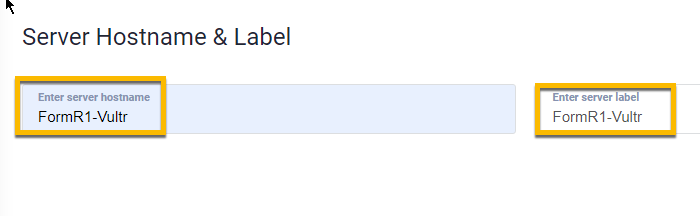
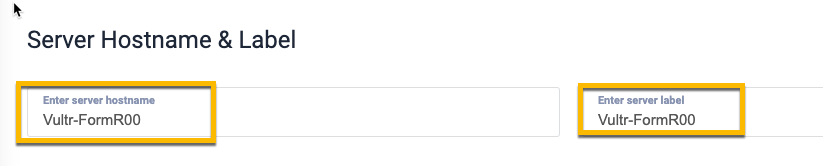
Updated Vultr-FormR00

Changed region(s): [[0.0, 0.3313, 1.0, 0.9036], [0.03, 0.1205, 0.42, 0.3012], [0.0, 0.0, 0.03, 0.1205]]

diff --git a/Setup/fr0301_Setup-Vultr-Ubuntu.md b/Setup/fr0301_Setup-Vultr-Ubuntu.md
@@ -53,7 +53,7 @@
 
 ![Vultr-add-SSH-key-pasted](./images/fr0301-06_Vultr-add-SSH-key-pasted.png "Vultr-add-SSH-key-pasted")
 
-8. Server Host Name and Label: FormR1-Vultr for both
+8. Server Host Name and Label: Vultr-FormR00 for both
 
 ![Vultr-Host-Label](./images/fr0301-07_Vultr-Host-Label.png "Vultr-Host-Label")
 
@@ -69,7 +69,7 @@
 ----
 ### 2. Open Vultr VM Console to Log in
 ----
-1. Click on Products, then the Server Name i.e. FormR1-Vultr
+1. Click on Products, then the Server Name i.e. Vultr-FormR00
 
 ![Vultr Open Console](./images/fr0301-09_Vultr-Open-Console.png "Open Console")
 
@@ -95,7 +95,7 @@
 
 6. You will see the Welcome screen for Ubuntu and the command prompt:
 
-    root@FormRx-Vultr:~#
+    root@Vultr-FormR00:~#
 
 ![Vultr Welcome](./images/fr0301-13_Vultr-Welcome.png "Welcome")
 
